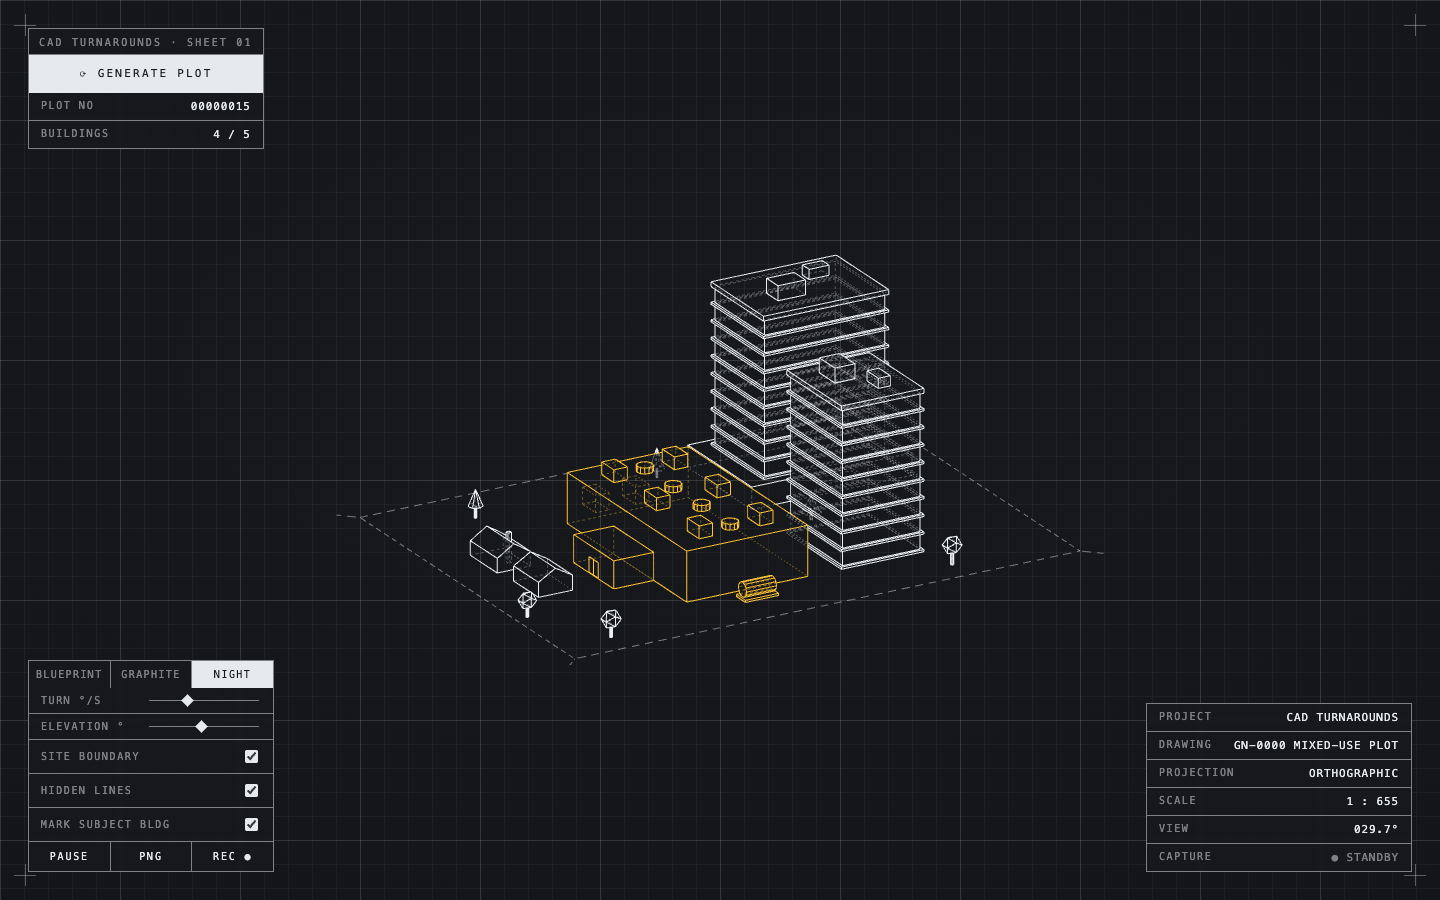
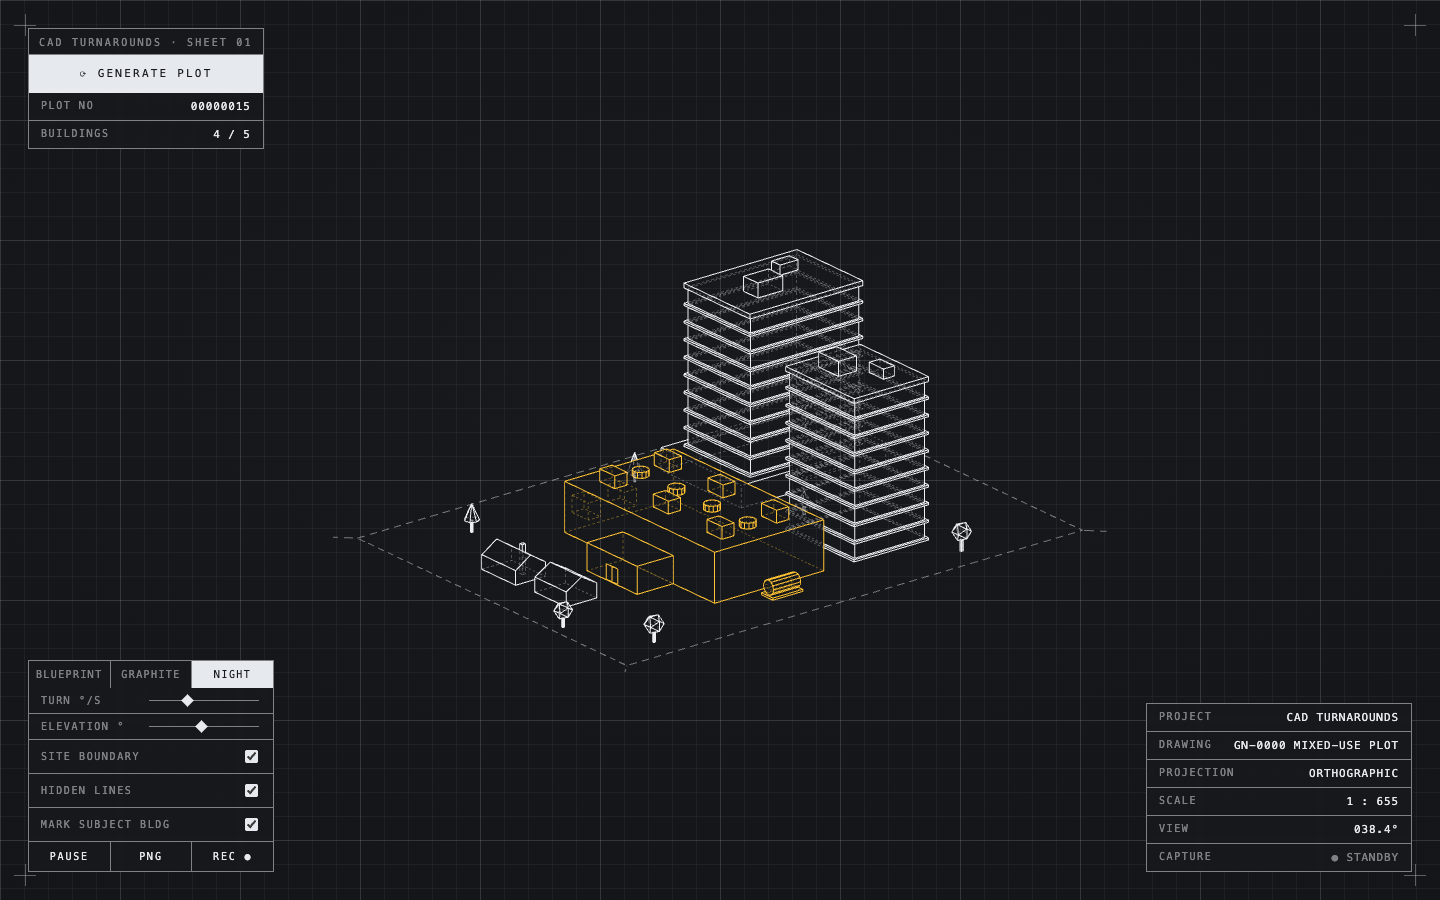
Lot outlines: chamfered corners and wall-aligned edges
Trace the union boundary as closed loops, chamfer every corner, and
where the outline staircases along a rotated building replace the steps
with one straight edge parallel to that wall (guarded against clipping
the footprint). Entrance opening is cut from the finished outline.

Changed region(s): [[0.3125, 0.28, 0.6875, 0.7156]]

diff --git a/src/generator.js b/src/generator.js
@@ -525,20 +525,13 @@ export function buildPlot({ seed = randomSeed(), maxBuildings = 5, materials }) 
       pts.push(ent.x, 0, ent.za, far, 0, ent.za,  ent.x, 0, ent.zb, far, 0, ent.zb);
     }
 
-    // 3. one union outline around the whole lot, with a gap at the entrance
+    // 3. trace the union outline as closed loops, then chamfer every corner
+    //    so the lot reads as one shape with angled edges, not stacked rects
+    const E = [];
+    const eV = (xx, za, zb) => { if (zb - za > 0.01) E.push([xx, za, xx, zb]); };
+    const eH = (xa, xb, zz) => { if (xb - xa > 0.01) E.push([xa, zz, xb, zz]); };
     for (const s of strips)
-      for (const r of s.runs) {
-        const [ra, rb] = r;
-        if (ent && s === ent.strip && r === ent.run) {
-          const solidEnd = ent.dir > 0 ? ra : rb;
-          V(solidEnd, s.z, s.z + s.h);
-          V(ent.x, s.z, ent.za);
-          V(ent.x, ent.zb, s.z + s.h);
-        } else {
-          V(ra, s.z, s.z + s.h);
-          V(rb, s.z, s.z + s.h);
-        }
-      }
+      for (const [ra, rb] of s.runs) { eV(ra, s.z, s.z + s.h); eV(rb, s.z, s.z + s.h); }
     const uncovered = (A, B) => {   // parts of intervals A not covered by B
       const out = [];
       for (const [a0, a1] of A) {
@@ -553,14 +546,115 @@ export function buildPlot({ seed = randomSeed(), maxBuildings = 5, materials }) 
       }
       return out;
     };
-    for (const [xa, xb] of strips[0].runs) H(xa, xb, strips[0].z);
+    for (const [xa, xb] of strips[0].runs) eH(xa, xb, strips[0].z);
     for (let i = 0; i < strips.length - 1; i++) {
       const zz = strips[i].z + strips[i].h;
-      for (const [xa, xb] of uncovered(strips[i].runs, strips[i + 1].runs)) H(xa, xb, zz);
-      for (const [xa, xb] of uncovered(strips[i + 1].runs, strips[i].runs)) H(xa, xb, zz);
+      for (const [xa, xb] of uncovered(strips[i].runs, strips[i + 1].runs)) eH(xa, xb, zz);
+      for (const [xa, xb] of uncovered(strips[i + 1].runs, strips[i].runs)) eH(xa, xb, zz);
     }
     const last = strips[strips.length - 1];
-    for (const [xa, xb] of last.runs) H(xa, xb, last.z + last.h);
+    for (const [xa, xb] of last.runs) eH(xa, xb, last.z + last.h);
+
+    // stitch edges into loops by shared endpoints
+    const K = (x, z) => `${Math.round(x * 64)},${Math.round(z * 64)}`;
+    const at = new Map();
+    E.forEach((e, i) => {
+      for (const k of [K(e[0], e[1]), K(e[2], e[3])]) {
+        if (!at.has(k)) at.set(k, []);
+        at.get(k).push(i);
+      }
+    });
+    const usedE = new Array(E.length).fill(false);
+    const loops = [];
+    for (let i = 0; i < E.length; i++) {
+      if (usedE[i]) continue;
+      usedE[i] = true;
+      const loop = [[E[i][0], E[i][1]], [E[i][2], E[i][3]]];
+      for (;;) {
+        const tail = loop[loop.length - 1];
+        const next = (at.get(K(tail[0], tail[1])) || []).find(j => !usedE[j]);
+        if (next === undefined) break;
+        usedE[next] = true;
+        const [x0, z0, x1, z1] = E[next];
+        loop.push(Math.abs(x0 - tail[0]) + Math.abs(z0 - tail[1]) < 0.05
+          ? [x1, z1] : [x0, z0]);
+      }
+      loop.pop();                                  // closing point = start
+      // merge collinear vertices
+      for (let v = loop.length - 1; v >= 0 && loop.length > 3; v--) {
+        const p = loop[(v - 1 + loop.length) % loop.length];
+        const c = loop[v];
+        const n = loop[(v + 1) % loop.length];
+        if ((Math.abs(p[0] - c[0]) < 0.02 && Math.abs(c[0] - n[0]) < 0.02) ||
+            (Math.abs(p[1] - c[1]) < 0.02 && Math.abs(c[1] - n[1]) < 0.02))
+          loop.splice(v, 1);
+      }
+      if (loop.length >= 4) loops.push(loop);
+    }
+
+    // where the outline staircases along a rotated building, replace the
+    // steps with one straight edge that runs parallel to that wall
+    const angledBldgs = buildingRects.filter(p => {
+      const m = ((p.a % (Math.PI / 2)) + Math.PI / 2) % (Math.PI / 2);
+      return m > 0.06 && m < Math.PI / 2 - 0.06;
+    });
+    const wallIdx = v =>
+      angledBldgs.findIndex(p => pointNearRect(v[0], v[1], p, setback + 3.5));
+    for (const loop of loops) {
+      const tag = loop.map(wallIdx);
+      for (let i = 0; i < loop.length && loop.length > 3;) {
+        if (tag[i] < 0) { i++; continue; }
+        let j = i;
+        while (j + 1 < loop.length && tag[j + 1] === tag[i]) j++;
+        if (j - i >= 2) {
+          const A = loop[i], B = loop[j], bld = angledBldgs[tag[i]];
+          const safe = [0.25, 0.5, 0.75].every(t => !pointNearRect(
+            A[0] + (B[0] - A[0]) * t, A[1] + (B[1] - A[1]) * t, bld, 0.3));
+          if (safe) {
+            loop.splice(i + 1, j - i - 1);
+            tag.splice(i + 1, j - i - 1);
+            i += 2;
+            continue;
+          }
+        }
+        i = j + 1;
+      }
+    }
+
+    // chamfer corners and emit, cutting the entrance opening out
+    const emit = (x0, z0, x1, z1) => {
+      if (ent && Math.abs(x0 - x1) < 0.02 && Math.abs(x0 - ent.x) < 0.05) {
+        const lo = Math.min(z0, z1), hi = Math.max(z0, z1);
+        if (lo < ent.zb && hi > ent.za) {          // overlaps the opening
+          if (lo < ent.za) pts.push(x0, 0, lo, x0, 0, ent.za);
+          if (hi > ent.zb) pts.push(x0, 0, ent.zb, x0, 0, hi);
+          return;
+        }
+      }
+      pts.push(x0, 0, z0, x1, 0, z1);
+    };
+    for (const loop of loops) {
+      const nv = loop.length;
+      const ins = loop.map((c, i) => {
+        const p = loop[(i - 1 + nv) % nv], n = loop[(i + 1) % nv];
+        const lp = Math.hypot(c[0] - p[0], c[1] - p[1]);
+        const ln = Math.hypot(n[0] - c[0], n[1] - c[1]);
+        return Math.min(2.6, lp / 3, ln / 3);
+      });
+      for (let i = 0; i < nv; i++) {
+        const a = loop[i], b = loop[(i + 1) % nv], j = (i + 1) % nv;
+        const L = Math.hypot(b[0] - a[0], b[1] - a[1]);
+        const ux = (b[0] - a[0]) / L, uz = (b[1] - a[1]) / L;
+        emit(a[0] + ux * ins[i], a[1] + uz * ins[i],
+             b[0] - ux * ins[j], b[1] - uz * ins[j]);
+        const c = loop[(i + 2) % nv];               // chamfer diagonal at b
+        const L2 = Math.hypot(c[0] - b[0], c[1] - b[1]);
+        const q = [b[0] + ((c[0] - b[0]) / L2) * ins[j],
+                   b[1] + ((c[1] - b[1]) / L2) * ins[j]];
+        if (ins[j] > 0.05)
+          pts.push(b[0] - ux * ins[j], 0, b[1] - uz * ins[j], q[0], 0, q[1]);
+      }
+    }
 
     // 4. sparse stall markings: clustered runs of dividers, not wall-to-wall
     for (const s of strips) {